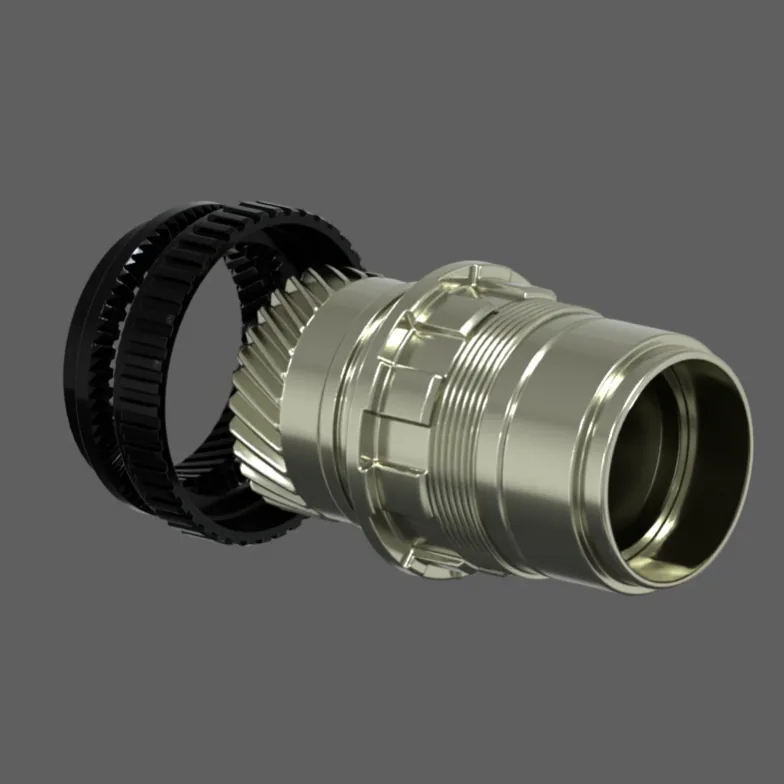
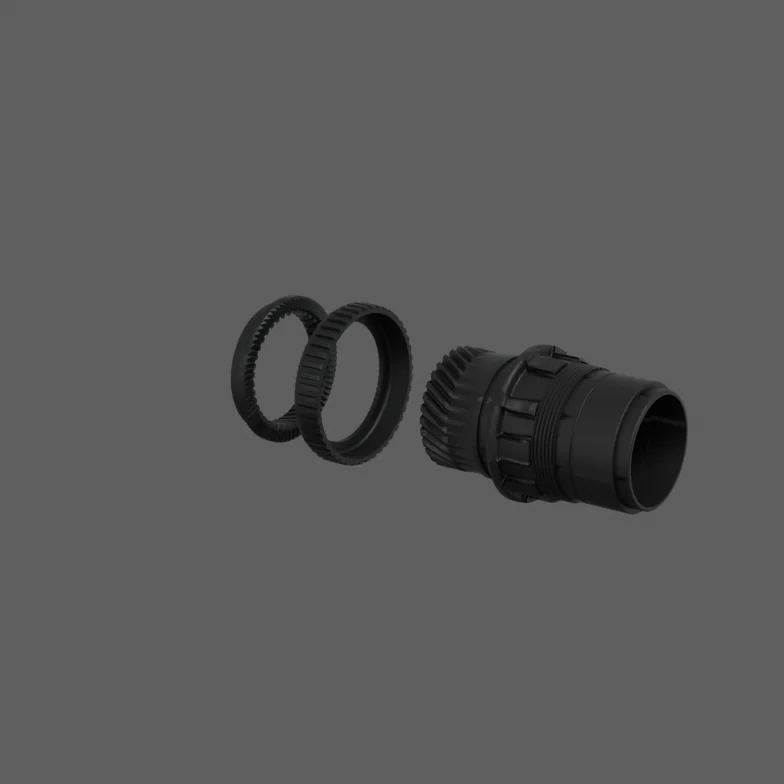
Rear exploded, ratchet rings and helical drive images: re-rendered with the HG freehub in olive (spline included), XDR grey-black, ratchet rings black (Viktor approved 3 Oct)
Claude-Session: https://claude.ai/code/session_01LETskBgq56Yh4XUifaDGTo

Changed region(s): [[0.0612, 0.2449, 0.9796, 0.7653]]

diff --git a/index.html b/index.html
@@ -56,8 +56,8 @@
       "category": "Bicycle hubs",
       "image": [
         "https://helix.venn-cycling.com/assets/img/helix-01-hub-set.webp?v=20261003",
-        "https://helix.venn-cycling.com/assets/img/helix-01-rear-exploded.webp",
-        "https://helix.venn-cycling.com/assets/img/helix-01-ratchet-rings.webp"
+        "https://helix.venn-cycling.com/assets/img/helix-01-rear-exploded.webp?v=20261003",
+        "https://helix.venn-cycling.com/assets/img/helix-01-ratchet-rings.webp?v=20261003"
       ],
       "weight": {"@type": "QuantitativeValue", "value": 348, "unitCode": "GRM"},
       "countryOfOrigin": "TW",
@@ -274,7 +274,7 @@ footer a:hover{text-decoration:underline;text-decoration-color:var(--red)}
         <li><b>Spring</b><span>Flat steel, more contact area than a round wire spring</span></li>
       </ul>
     </div>
-    <div class="media"><img src="assets/img/helix-01-helical-drive.webp" width="784" height="784" loading="lazy" alt="Helix-01 helical drive: the freehub's helical spline and the 72-tooth ratchet ring"></div>
+    <div class="media"><img src="assets/img/helix-01-helical-drive.webp?v=20261003" width="784" height="784" loading="lazy" alt="Helix-01 helical drive: the freehub's helical spline and the 72-tooth ratchet ring"></div>
   </div>
 </section>
 
@@ -302,11 +302,11 @@ footer a:hover{text-decoration:underline;text-decoration-color:var(--red)}
     <p class="intro">The Helix-01 is made in Taiwan by a hub maker with four decades of precision hub manufacturing, drawing on the island's automotive forging and surface treatment supply chains instead of reinventing them.</p>
     <div class="parts">
       <div class="part"><img src="assets/img/helix-01-cold-forged-shell.webp" width="784" height="783" loading="lazy" alt="Cold-forged Helix-01 rear hub shell"><h3>Cold-forged shell</h3><p>Cold forging aligns the aluminium's grain with the shape of the part, for strength that machining alone cannot give. Shot-peened grey, laser-etched logo.</p></div>
-      <div class="part"><img src="assets/img/helix-01-ratchet-rings.webp" width="784" height="784" loading="lazy" alt="Helix-01 72-tooth ratchet rings and helical drive"><h3>Gearbox-grade ratchet</h3><p>Custom-forged SCM 415 steel, CNC machined and manganese phosphate coated: the treatment car gearboxes use to cut friction and hold lubricant.</p></div>
+      <div class="part"><img src="assets/img/helix-01-ratchet-rings.webp?v=20261003" width="784" height="784" loading="lazy" alt="Helix-01 72-tooth ratchet rings and helical drive"><h3>Gearbox-grade ratchet</h3><p>Custom-forged SCM 415 steel, CNC machined and manganese phosphate coated: the treatment car gearboxes use to cut friction and hold lubricant.</p></div>
       <div class="part"><img src="assets/img/helix-01-axle.webp" width="784" height="784" loading="lazy" alt="Helix-01 15 mm threaded axle"><h3>15 mm threaded axle</h3><p>7075-T6 hardened aluminium. A steel axle for e-bikes and tandems is available on wholesale orders.</p></div>
       <div class="part"><img src="assets/img/helix-01-freehub.webp?v=20261003" width="784" height="785" loading="lazy" alt="Helix-01 hardened alloy freehub body"><h3>Hardened freehub</h3><p>Shimano HG or SRAM XDR, and Shimano Micro Spline for MTB. A steel freehub for e-bikes and tandems is available on wholesale orders.</p></div>
       <div class="part"><img src="assets/img/helix-01-flat-spring.webp" width="721" height="721" loading="lazy" alt="Helix-01 flat steel ratchet spring"><h3>Flat steel spring</h3><p>More contact area and strength than a round wire spring, so engagement starts evenly every time.</p></div>
-      <div class="part"><img src="assets/img/helix-01-rear-exploded.webp" width="1400" height="788" loading="lazy" alt="Exploded view of the Helix-01 rear hub"><h3>Simple to service</h3><p>Disassembly is straightforward, and the sealed ratchet needs little care. Lithium-based grease is all it asks for.</p></div>
+      <div class="part"><img src="assets/img/helix-01-rear-exploded.webp?v=20261003" width="1400" height="788" loading="lazy" alt="Exploded view of the Helix-01 rear hub"><h3>Simple to service</h3><p>Disassembly is straightforward, and the sealed ratchet needs little care. Lithium-based grease is all it asks for.</p></div>
     </div>
   </div>
 </section>
